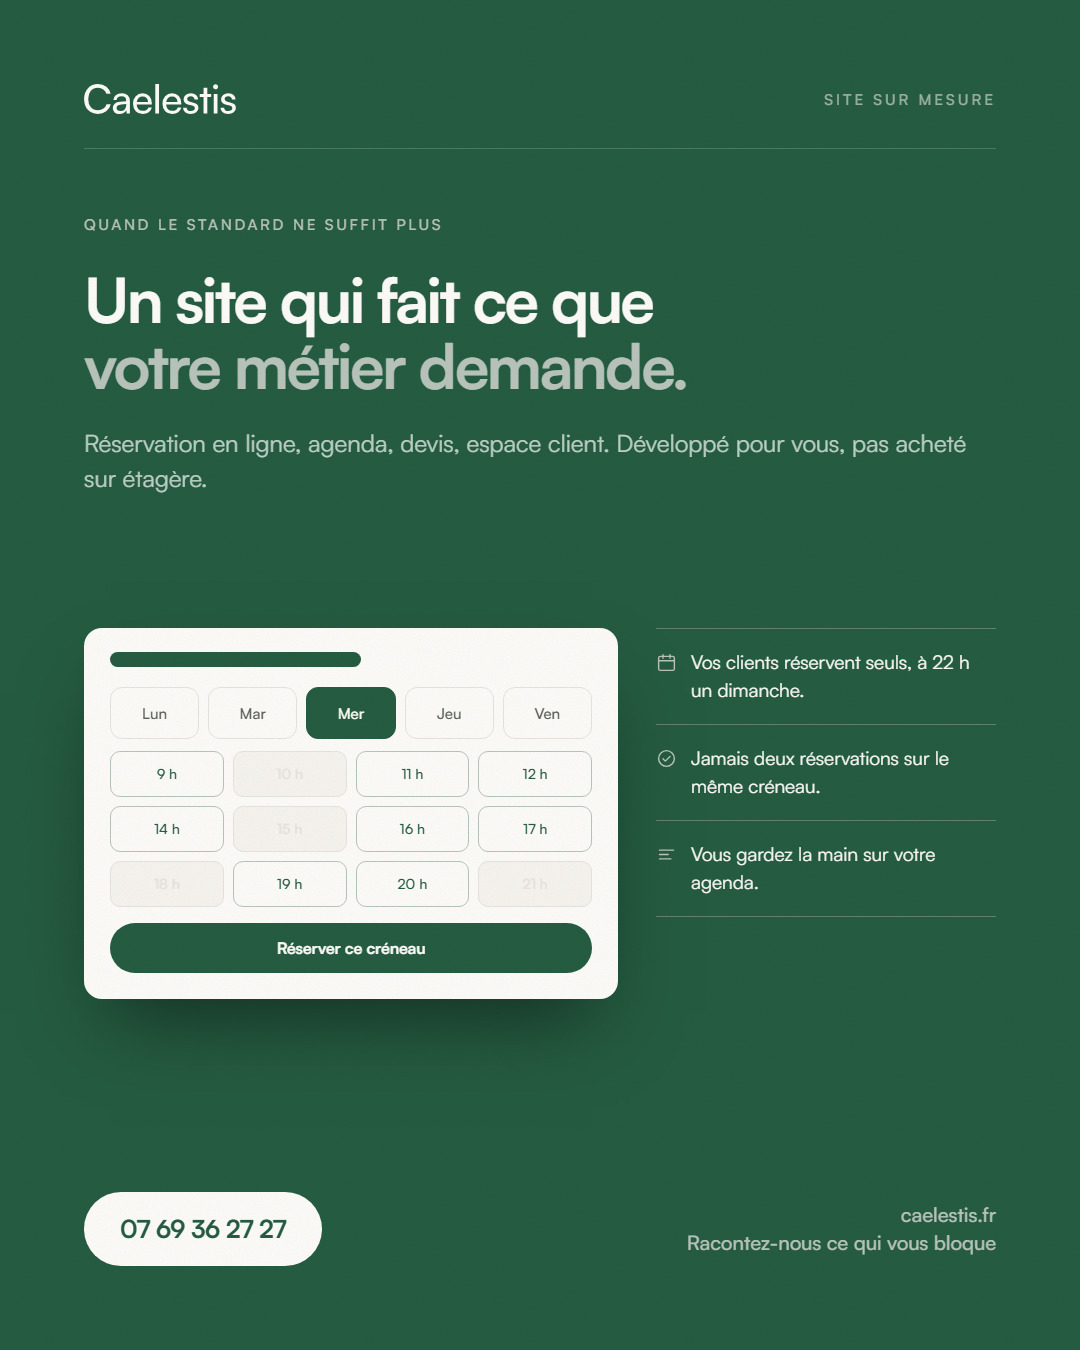
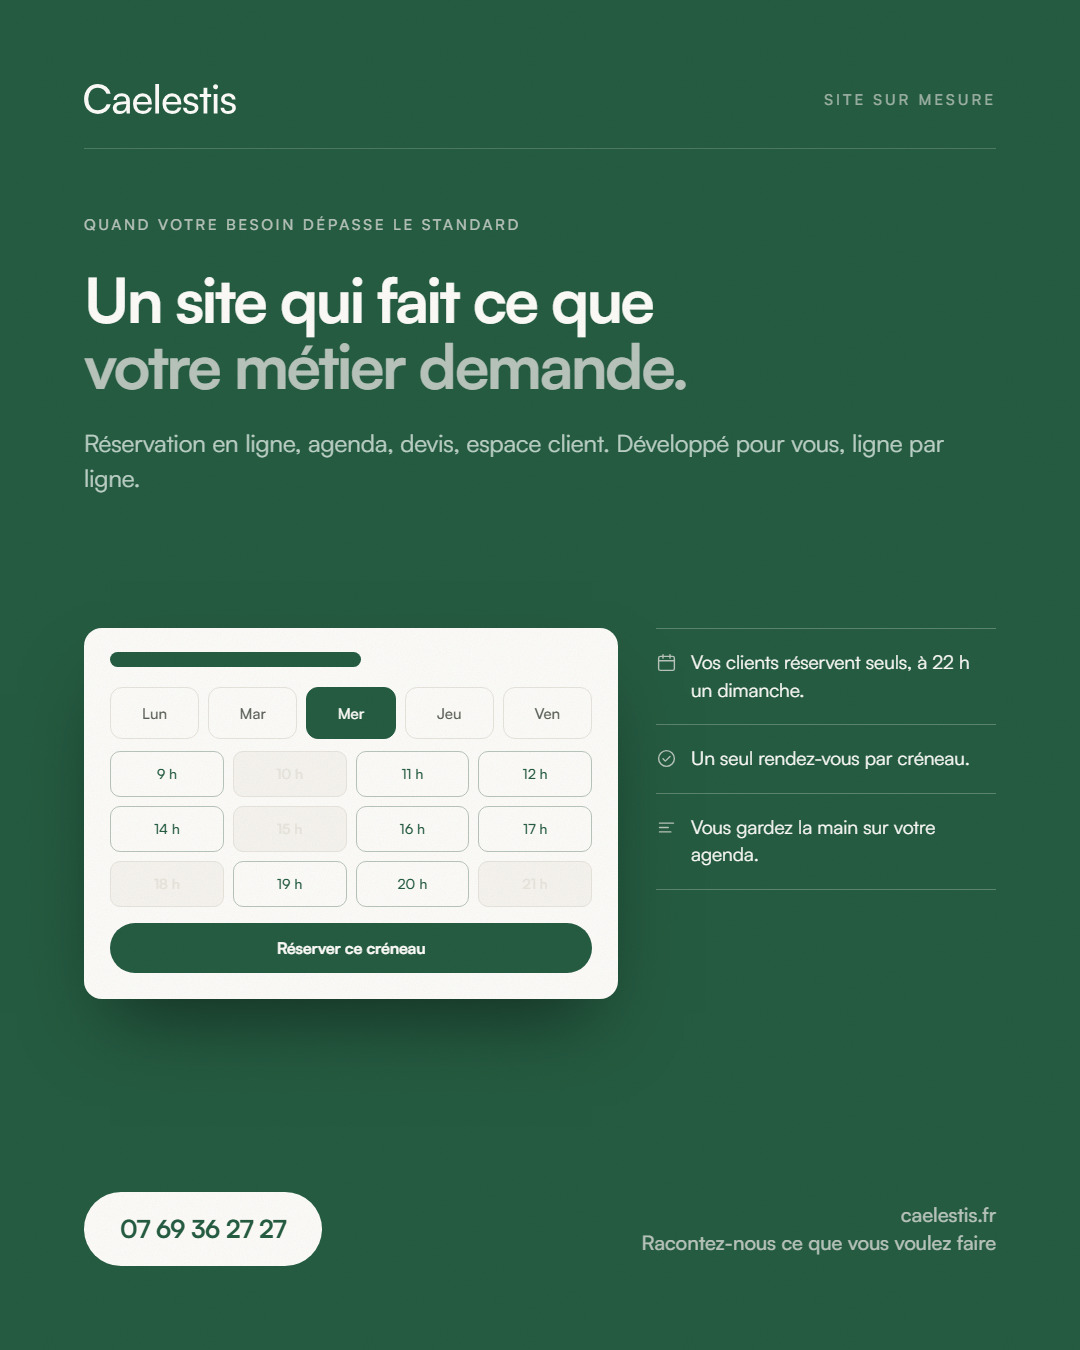
content(affiches): formulation affirmative sur les deux series Instagram
Meme regle que sur le site, appliquee aux 23 affiches et a leurs sources
HTML, puis rendu regenere.

Principales reecritures : « Sans engagement » devient « Decision libre »,
« Prix nets, sans TVA a ajouter » devient « Prix nets, tout compris »,
« Le prix est sur le site, pas au bout d'un rendez-vous » devient
« avant meme de nous parler », « Quand le standard ne suffit plus »
devient « Quand votre besoin depasse le standard », « Etre visible sans
payer la publicite » devient « Etre visible en gagnant sa place ».

La charte du projet consigne la regle et ses trois exceptions. Elle
autorisait encore le point median en remplacement du tiret cadratin,
alors que la regle globale le bannit : corrige au passage.

diff --git a/identite/reseaux/instagram/publicites/planche.html b/identite/reseaux/instagram/publicites/planche.html
@@ -57,7 +57,7 @@
       <span class="lieu">Affiches publicitaires</span>
     </div>
     <h1>Trois affiches d'offre,<br><span class="accent">dix affiches par sujet.</span></h1>
-    <p>Une phrase forte tirée du site, un module visuel qui prouve, un appel à l'action. Format 1080 x 1350 pixels, rendu sans interpolation. Chaque vignette ouvre le PNG en taille réelle.</p>
+    <p>Une phrase forte tirée du site, un module visuel qui prouve, un appel à l'action. Format 1080 x 1350 pixels, rendu au pixel près. Chaque vignette ouvre le PNG en taille réelle.</p>
     <p style="margin-top: 14px;">Les trois premières disent l'offre entière, sites internet, fiches Google et référencement. Ce sont celles à publier en premier, et à republier.</p>
     <p class="lien-serie"><a href="../planche.html">Voir la première série, les dix affiches éditoriales</a></p>
   </header>
@@ -105,7 +105,7 @@
       <figcaption>
         <p class="rang">01, création de site</p>
         <p class="nom">Un site internet qui reflète vraiment votre activité.</p>
-        <p class="quoi">Une page de site dessinée, jamais une capture.</p>
+        <p class="quoi">Une page de site entièrement dessinée.</p>
         <p class="fichiers"><a href="export/caelestis-pub-1-site-qui-reflete.png">PNG</a><span>,</span><a href="export/caelestis-pub-1-site-qui-reflete.jpg">JPEG</a><span>,</span><a href="pub-1-site-qui-reflete.html">source</a></p>
       </figcaption>
     </figure>
@@ -155,7 +155,7 @@
       <figcaption>
         <p class="rang">06, tarifs</p>
         <p class="nom">Le prix est sur le site, pas au bout d'un rendez-vous.</p>
-        <p class="quoi">Les quatre formules et leur tarif, sans un seul visuel.</p>
+        <p class="quoi">Les quatre formules et leur tarif, en pleine typographie.</p>
         <p class="fichiers"><a href="export/caelestis-pub-6-prix-affiches.png">PNG</a><span>,</span><a href="export/caelestis-pub-6-prix-affiches.jpg">JPEG</a><span>,</span><a href="pub-6-prix-affiches.html">source</a></p>
       </figcaption>
     </figure>
@@ -195,7 +195,7 @@
       <figcaption>
         <p class="rang">10, appel</p>
         <p class="nom">Qu'attendez-vous ? Partagez-la.</p>
-        <p class="quoi">Le numéro en grand, le bouton, les quatre repères. Rien d'autre.</p>
+        <p class="quoi">Le numéro en grand, le bouton, les quatre repères.</p>
         <p class="fichiers"><a href="export/caelestis-pub-10-partagez-la.png">PNG</a><span>,</span><a href="export/caelestis-pub-10-partagez-la.jpg">JPEG</a><span>,</span><a href="pub-10-partagez-la.html">source</a></p>
       </figcaption>
     </figure>
@@ -203,8 +203,8 @@
   </div>
 
   <footer>
-    <p><b>Rythme conseillé.</b> Une affiche par semaine, dans cet ordre : 1, 6, 2, 5, 3, 9, 4, 7, 8, 10. L'affiche 10 se republie sans lassitude, c'est celle qui fait décrocher le téléphone.</p>
-    <p style="margin-top: 14px;"><b>Ce qui est affirmé est vérifiable.</b> Les tarifs viennent de <code>src/utils/tarifs.ts</code>, les délais et l'engagement nature sont repris du site. Aucune capture d'écran, ni d'un site client ni du site Caelestis : les pages, les fiches et les résultats sont dessinés. Les exemples restent génériques, jamais une entreprise réelle. Le référencement est annoncé sur devis.</p>
+    <p><b>Rythme conseillé.</b> Une affiche par semaine, dans cet ordre : 1, 6, 2, 5, 3, 9, 4, 7, 8, 10. L'affiche 10 se republie autant qu'on veut, c'est celle qui fait décrocher le téléphone.</p>
+    <p style="margin-top: 14px;"><b>Ce qui est affirmé est vérifiable.</b> Les tarifs viennent de <code>src/utils/tarifs.ts</code>, les délais et l'engagement nature sont repris du site. Les pages, les fiches et les résultats sont entièrement dessinés, à la main. Les exemples restent génériques, jamais une entreprise réelle. Le référencement est annoncé sur devis.</p>
   </footer>
 
 </div>

diff --git a/identite/reseaux/instagram/publicites/pub-7-sur-mesure.html b/identite/reseaux/instagram/publicites/pub-7-sur-mesure.html
@@ -37,9 +37,9 @@
   <div class="filet"></div>
 
   <div class="bloc-texte">
-    <p class="eyebrow">Quand le standard ne suffit plus</p>
+    <p class="eyebrow">Quand votre besoin dépasse le standard</p>
     <h1>Un site qui fait ce que<br><span class="accent">votre métier demande.</span></h1>
-    <p class="sous">Réservation en ligne, agenda, devis, espace client. Développé pour vous, pas acheté sur étagère.</p>
+    <p class="sous">Réservation en ligne, agenda, devis, espace client. Développé pour vous, ligne par ligne.</p>
   </div>
 
   <div class="mod-resa" role="img" aria-label="Aperçu d'un module de réservation">
@@ -57,13 +57,13 @@
 
   <ul class="aptitudes">
     <li><svg viewBox="0 0 24 24"><rect x="3" y="5" width="18" height="16" rx="2"/><path d="M3 10h18M8 3v4M16 3v4"/></svg>Vos clients réservent seuls, à 22 h un dimanche.</li>
-    <li><svg viewBox="0 0 24 24"><circle cx="12" cy="12" r="9"/><path d="M8 12.4l2.6 2.6L16 9.6"/></svg>Jamais deux réservations sur le même créneau.</li>
+    <li><svg viewBox="0 0 24 24"><circle cx="12" cy="12" r="9"/><path d="M8 12.4l2.6 2.6L16 9.6"/></svg>Un seul rendez-vous par créneau.</li>
     <li><svg viewBox="0 0 24 24"><path d="M4 7h16M4 12h10M4 17h13"/></svg>Vous gardez la main sur votre agenda.</li>
   </ul>
 
   <div class="cta">
     <span class="bouton">07 69 36 27 27</span>
-    <span class="note">caelestis.fr<br>Racontez-nous ce qui vous bloque</span>
+    <span class="note">caelestis.fr<br>Racontez-nous ce que vous voulez faire</span>
   </div>
 
 </div>

diff --git a/identite/reseaux/instagram/affiche-6-fondateur.html b/identite/reseaux/instagram/affiche-6-fondateur.html
@@ -60,9 +60,9 @@
   <div class="colonnes">
     <div class="propos">
       <p class="eyebrow">Derrière l'agence</p>
-      <h1>Une personne, pas un standard téléphonique.</h1>
+      <h1>Une personne au bout du fil, toujours la même.</h1>
       <p class="dire">Je suis Célestin Fruleux. Le nom Caelestis vient de mon prénom, dont l'origine latine évoque le ciel.</p>
-      <p class="dire">Un bon site internet ne change pas votre activité. Il la valorise, la rend visible, crédible et facile à trouver, et devient un véritable outil de croissance.</p>
+      <p class="dire">Un bon site internet valorise votre activité, la rend visible, crédible et facile à trouver, et devient un véritable outil de croissance.</p>
       <p class="dire">Vous avez la même personne au téléphone, au premier échange comme deux ans après la mise en ligne.</p>
       <p class="exergue">Pour ceux qui créent quelque chose de beau.</p>
       <dl class="fiche">

diff --git a/identite/reseaux/instagram/affiche-9-referencement.html b/identite/reseaux/instagram/affiche-9-referencement.html
@@ -60,7 +60,7 @@
   <div class="filet"></div>
 
   <div class="bloc-texte">
-    <p class="eyebrow">Être visible sans payer la publicité</p>
+    <p class="eyebrow">Être visible en gagnant sa place</p>
     <h1>Être trouvé par ceux<br><span class="accent">qui vous cherchent déjà.</span></h1>
   </div>
 
@@ -93,7 +93,7 @@
   <div class="methode">
     <div>
       <p class="t">Les bons mots</p>
-      <p class="d">Ceux que vos clients tapent vraiment, pas le vocabulaire du métier.</p>
+      <p class="d">Ceux que vos clients tapent vraiment, dans leurs mots à eux.</p>
     </div>
     <div>
       <p class="t">Un site rapide</p>
@@ -101,7 +101,7 @@
     </div>
     <div>
       <p class="t">Un travail de fond</p>
-      <p class="d">Mené avec méthode, mesuré, sans promesse de première place.</p>
+      <p class="d">Mené avec méthode et mesuré, la position finale appartenant à Google.</p>
     </div>
   </div>
 

diff --git a/identite/reseaux/instagram/affiche-8-engagements.html b/identite/reseaux/instagram/affiche-8-engagements.html
@@ -61,7 +61,7 @@
     <div class="repere">
       <svg viewBox="0 0 24 24" aria-hidden="true"><path d="M20 15a2 2 0 01-2 2H8l-4 4V6a2 2 0 012-2h12a2 2 0 012 2z"/></svg>
       <p class="t">Une réponse sous 48&nbsp;h</p>
-      <p class="d">Un vrai délai de réponse, pas un formulaire qui ne revient jamais. Un message laissé le soir trouve sa réponse.</p>
+      <p class="d">Un vrai délai de réponse : 48 h, annoncées et tenues. Un message laissé le soir trouve sa réponse.</p>
     </div>
     <div class="repere">
       <svg viewBox="0 0 24 24" aria-hidden="true"><rect x="3" y="5" width="18" height="16" rx="2"/><path d="M3 10h18M8 3v4M16 3v4"/></svg>
@@ -71,7 +71,7 @@
   </div>
 
   <div class="clore">
-    <span class="g">Devis gratuit, sans engagement.</span>
+    <span class="g">Devis gratuit, vous décidez ensuite.</span>
     <span class="d">caelestis.fr</span>
   </div>
 

diff --git a/identite/reseaux/instagram/publicites/pub-8-engagement-nature.html b/identite/reseaux/instagram/publicites/pub-8-engagement-nature.html
@@ -29,7 +29,7 @@
   <div class="bloc-texte">
     <p class="eyebrow">Chaque projet compte deux fois</p>
     <h1>2&nbsp;% de chaque projet<br><span class="accent">reversés à la nature.</span></h1>
-    <p class="sous">Chaque site que nous créons finance le travail de <b>France Nature Environnement</b>, première fédération française de protection de la nature. Parce que construire quelque chose de beau ne s'arrête pas à soi.</p>
+    <p class="sous">Chaque site que nous créons finance le travail de <b>France Nature Environnement</b>, première fédération française de protection de la nature. Parce que construire quelque chose de beau porte plus loin que soi.</p>
   </div>
 
   <div class="cta">

diff --git a/identite/reseaux/instagram/publicites/pub-6-prix-affiches.html b/identite/reseaux/instagram/publicites/pub-6-prix-affiches.html
@@ -39,8 +39,8 @@
   <div class="filet"></div>
 
   <div class="bloc-texte">
-    <p class="eyebrow">Aucun devis à rallonge</p>
-    <h1>Le prix est sur le site,<br><span class="accent">pas au bout d'un rendez-vous.</span></h1>
+    <p class="eyebrow">Un prix ferme, annoncé</p>
+    <h1>Le prix est sur le site,<br><span class="accent">avant même de nous parler.</span></h1>
   </div>
 
   <div class="formules">
@@ -76,7 +76,7 @@
 
   <div class="cta">
     <span class="bouton">07 69 36 27 27</span>
-    <span class="note">Prix nets, sans TVA à ajouter<br>caelestis.fr</span>
+    <span class="note">Prix nets, tout compris<br>caelestis.fr</span>
   </div>
 
 </div>

diff --git a/identite/reseaux/instagram/affiche-10-identite.html b/identite/reseaux/instagram/affiche-10-identite.html
@@ -48,8 +48,8 @@
 
   <div class="bloc-texte">
     <p class="eyebrow">Une identité par client</p>
-    <h1>Neuf teintes, une police,<br><span class="accent">et rien d'autre.</span></h1>
-    <p class="sous">Voici la nôtre. Chaque client repart avec la sienne&nbsp;: sa palette, ses photos, son vocabulaire. Jamais celle-ci, jamais celle du voisin.</p>
+    <h1>Neuf teintes,<br><span class="accent">une police.</span></h1>
+    <p class="sous">Voici la nôtre. Chaque client repart avec la sienne&nbsp;: sa palette, ses photos, son vocabulaire. La sienne, et elle seule.</p>
   </div>
 
   <div class="nuancier">

diff --git a/identite/reseaux/instagram/affiche-7-point-de-rencontre.html b/identite/reseaux/instagram/affiche-7-point-de-rencontre.html
@@ -79,7 +79,7 @@
     </svg>
   </div>
 
-  <p class="dire">Une fiche Google, de belles photos, des clients qui vous recommandent, un bouche-à-oreille qui tourne. <b>Vous avez déjà semé partout, et chacun travaille pour vous.</b> Il ne manque que l'endroit qui rassemble le tout.</p>
+  <p class="dire">Une fiche Google, de belles photos, des clients qui vous recommandent, un bouche-à-oreille qui tourne. <b>Vous avez déjà semé partout, et chacun travaille pour vous.</b> Il reste l'endroit qui rassemble le tout.</p>
 
   <p class="clore">Une adresse à votre nom, où chaque canal ramène.</p>
 

diff --git a/identite/reseaux/instagram/publicites/pub-9-une-seule-page.html b/identite/reseaux/instagram/publicites/pub-9-une-seule-page.html
@@ -43,7 +43,7 @@
   <div class="bloc-texte">
     <p class="eyebrow">Le moyen le plus simple de commencer</p>
     <h1>Une seule page suffit<br><span class="accent">pour exister en ligne.</span></h1>
-    <p class="sous">Pour démarrer simplement, sans rien sacrifier d'essentiel.</p>
+    <p class="sous">Pour démarrer simplement, avec tout l'essentiel.</p>
   </div>
 
   <div class="tel-dessine" role="img" aria-label="Aperçu d'une page unique sur téléphone">

diff --git a/identite/reseaux/instagram/affiche-5-deroule.html b/identite/reseaux/instagram/affiche-5-deroule.html
@@ -57,7 +57,7 @@
       <div class="rang">01</div>
       <div class="quoi">
         <p class="t">Un premier échange</p>
-        <p class="d">On parle de votre métier, de vos clients, de ce qui doit changer. Gratuit, sans engagement.</p>
+        <p class="d">On parle de votre métier, de vos clients, de ce qui doit changer. Gratuit, vous décidez ensuite.</p>
       </div>
     </div>
     <div class="etape">

diff --git a/identite/reseaux/instagram/publicites/offre-3-signature.html b/identite/reseaux/instagram/publicites/offre-3-signature.html
@@ -129,7 +129,7 @@
     <div class="carte-s">
       <p class="num">03</p>
       <p class="t">Référencement</p>
-      <p class="d">Remonter dans Google, sans payer de publicité.</p>
+      <p class="d">Remonter dans Google, et y rester.</p>
       <div class="module">
         <div class="mod-serp" role="img" aria-label="Aperçu d'une page de résultats">
           <div class="champ">
